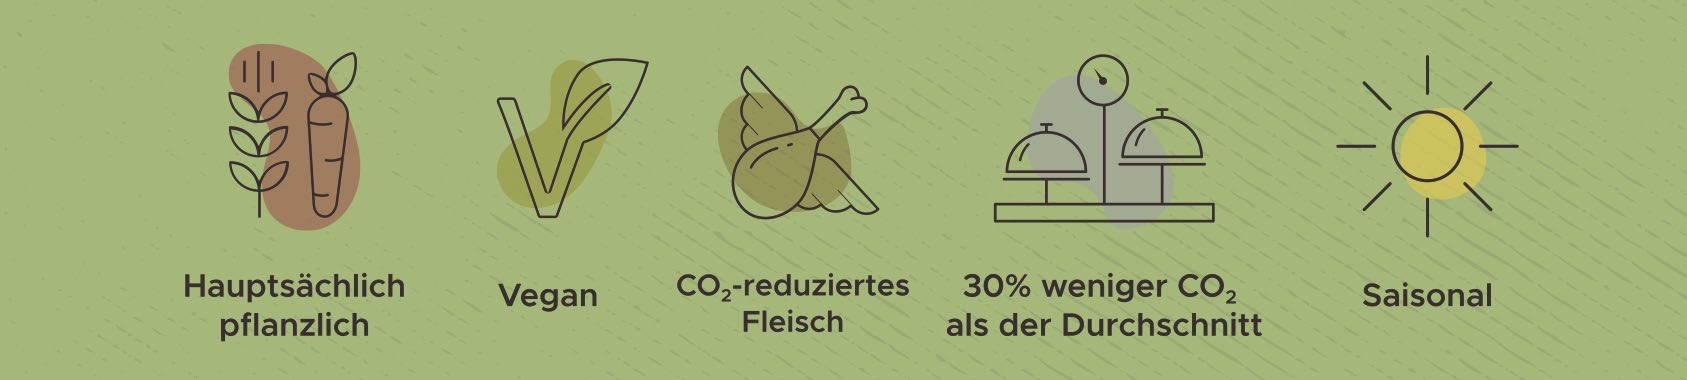
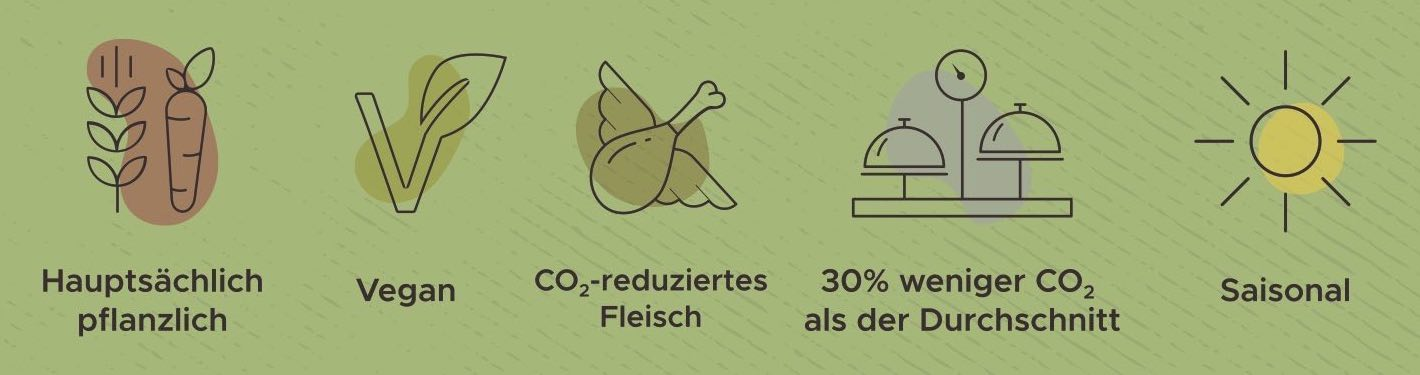
Adjust KlimafreundlicheMenus

diff --git a/src/components/KlimafreundlicheMenus.js b/src/components/KlimafreundlicheMenus.js
@@ -1,3 +1,4 @@
+import {Dimensions} from 'react-native'
 import React from 'react'
 import styled from 'styled-components'
 
@@ -7,9 +8,24 @@ import {StyledImage} from './Image'
 
 const KlimafreundlicheMenusBase = styled.View``
 
+const Fallstudie = styled(StyledImage)`
+  height: 500px;
+`
+
+const Recipes = styled(StyledImage)`
+  height: 300px;
+`
+
+const Symbols = styled(StyledImage)`
+  width: ${Dimensions.get('window').width - 150}px;
+  height: 200px;
+`
+
 const KlimafreundlicheMenus = () => (
   <KlimafreundlicheMenusBase>
-    <StyledImage source={require('../config/assets/circle.jpg')} />
+    <StyledImage
+      source={require('../config/assets/klimafreundliche-menus.jpg')}
+    />
 
     <Header>Das Konzept [FoodPRINT]: nachhaltig, gesund und lecker</Header>
     <Paragraph>
@@ -35,6 +51,8 @@ const KlimafreundlicheMenus = () => (
       werden.
     </Paragraph>
 
+    <StyledImage source={require('../config/assets/circle-with-header.png')} />
+
     <Header>DEN CO₂-FUSSABDRUCK VON LEBENSMITTELN MESSEN</Header>
 
     <Paragraph>
@@ -58,7 +76,7 @@ const KlimafreundlicheMenus = () => (
       Fußabdruck jedoch signifikant vergrössern.
     </Paragraph>
 
-    <StyledImage source={require('../config/assets/fallstudie.jpg')} />
+    <Fallstudie source={require('../config/assets/fallstudie.jpg')} />
 
     <Header>AUF ERNÄHRUNGSENTSCHEIDUNGEN KOMMT ES AN</Header>
 
@@ -80,7 +98,7 @@ const KlimafreundlicheMenus = () => (
       erzeugen. Dennoch ist es wichtig, uns bewusst zu sein, dass tierische
       Eiweisse normalerweise mit hohen Umweltkosten verbunden sind, so können
       alle mit einem gesunden Verhältnis zwischen pflanzlichen und tierischen
-      Eiweissen einen Beitrag leisten. Folgende Ernährungsentscheidungen tragen
+      Eiweißen einen Beitrag leisten. Folgende Ernährungsentscheidungen tragen
       signifikant dazu bei, die negative Klimawirkung zu reduzieren:
     </Paragraph>
 
@@ -93,8 +111,6 @@ const KlimafreundlicheMenus = () => (
 
     <StyledImage source={require('../config/assets/ingredients.jpg')} />
 
-    <StyledImage source={require('../config/assets/recipes.jpg')} />
-
     <Paragraph>
       Wir wissen es genau: Eaternity ermittelt für jede Zutat und jedes Menu die
       CO₂-Belastung. Dazu wird tagesaktuell ermittelt, wie viele Emissionen an
@@ -103,7 +119,7 @@ const KlimafreundlicheMenus = () => (
       von CO₂-Belastungen der Nahrungsmittel.
     </Paragraph>
 
-    <StyledImage source={require('../config/assets/symbols.jpg')} />
+    <Recipes source={require('../config/assets/recipes.jpg')} />
 
     <Header>Zutaten eines nachhaltigen Menus:</Header>
     <Paragraph>
@@ -111,6 +127,8 @@ const KlimafreundlicheMenus = () => (
       oder vegan, die Hauptsache ist immer der Geschmack. Und wenn es Fleisch
       gibt, dann ist es verhältnismäßig klimafreundlich.
     </Paragraph>
+
+    <Symbols source={require('../config/assets/symbols.jpg')} />
   </KlimafreundlicheMenusBase>
 )
 

diff --git a/src/components/EssenUndKlimawandel.js b/src/components/EssenUndKlimawandel.js
@@ -8,11 +8,6 @@ import {StyledImage} from './Image'
 
 const EssenUndKlimawandelBase = styled.View``
 
-const ProblemCO2 = styled(StyledImage)`
-  width: ${Dimensions.get('window').width - 50}px;
-  height: 400px;
-`
-
 const ProblemShortLabeled = styled(StyledImage)`
   width: ${Dimensions.get('window').width - 150}px;
   height: 200px;
